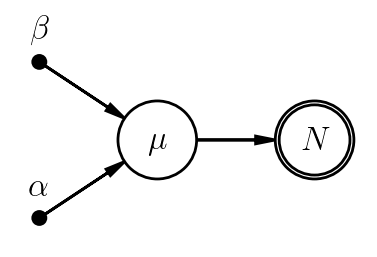
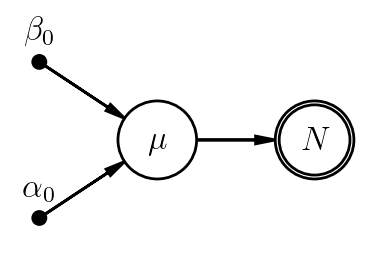
minor tweaks to bayes chunk & graphics

Changed region(s): [[0.0584, 0.0623, 0.1459, 0.1868], [0.0584, 0.6848, 0.1459, 0.8093]]

diff --git a/code/bayes_theorem.py b/code/bayes_theorem.py
@@ -10,20 +10,17 @@ import scipy.stats as st
 def GammaPDF(x,a,b):
     return b**a * x**(a-1.0) * np.exp(-b*x) / Gamma(a)
 
-def bayesDemo(alpha0, beta0, N, showLikelihood=False):
+def bayesDemo(alpha0, beta0, N):
     mu = np.linspace(0.0, np.max([10.0, N+5.0*np.sqrt(N)]), 100)
     prior = GammaPDF(mu, alpha0, beta0)
     like = st.poisson.pmf(N,mu)
     postpar = (alpha0+N, beta0+1)
     post = GammaPDF(mu, postpar[0], postpar[1])
-    postLine, = plt.plot(mu,post)
-    priorLine, = plt.plot(mu,prior)
-    if showLikelihood:
-        likeLine, = plt.plot(mu,like)
-        plt.legend((priorLine, likeLine, postLine), ('Prior', 'Likelihood', 'Posterior'))
-    else:
-        dataLine, = plt.plot([N]*2, [0.0, np.max(post)*1.1], '--')
-        plt.legend((priorLine, dataLine, postLine), ('Prior', 'Measurement', 'Posterior'), fontsize='x-large')
+    priorLine, = plt.plot(mu,prior,'g')
+    likeLine, = plt.plot(mu,like,'r')
+    dataLine, = plt.plot([N]*2, [0.0, np.max(post)*1.1], 'k--')
+    postLine, = plt.plot(mu,post,'b')
+    plt.legend((priorLine, dataLine, likeLine, postLine), ('Prior', 'Data', 'Likelihood', 'Posterior'))
     plt.xlabel(r'$\mu$', fontsize=22)
     plt.ylabel('density', fontsize=22)
     return postpar

diff --git a/graphics/bayes.py b/graphics/bayes.py
@@ -5,8 +5,8 @@ rc("font", family="serif", size=12)
 rc("text", usetex=True)
 
 pgm = daft.PGM([2.4, 1.65], observed_style="inner")
-pgm.add_node(daft.Node("alpha", r"$\alpha$", 0.25, 0.25, fixed=True))
-pgm.add_node(daft.Node("beta", r"$\beta$", 0.25, 1.25, fixed=True))
+pgm.add_node(daft.Node("alpha", r"$\alpha_0$", 0.25, 0.25, fixed=True))
+pgm.add_node(daft.Node("beta", r"$\beta_0$", 0.25, 1.25, fixed=True))
 pgm.add_node(daft.Node("mu", r"$\mu$", 1.0, 0.75))
 pgm.add_node(daft.Node("N", r"$N$", 2.0, 0.75, observed=True))
 pgm.add_edge("alpha", "mu")
@@ -16,10 +16,10 @@ pgm.render()
 pgm.figure.savefig("bayes_poissoneg_pgm.png", dpi=200)
 
 pgm = daft.PGM([2.4, 1.65], observed_style="inner")
-pgm.add_node(daft.Node("prior", "prior", 0.25, 0.75, fixed=True))
+#pgm.add_node(daft.Node("prior", "prior", 0.25, 0.75, fixed=True))
 pgm.add_node(daft.Node("mu", r"$\mu$", 1.0, 0.75))
 pgm.add_node(daft.Node("N", r"$N$", 2.0, 0.75, observed=True))
-pgm.add_edge("prior", "mu")
+#pgm.add_edge("prior", "mu")
 pgm.add_edge("mu", "N")
 pgm.render()
 pgm.figure.savefig("bayes_poissoneg_pgm0.png", dpi=200)
